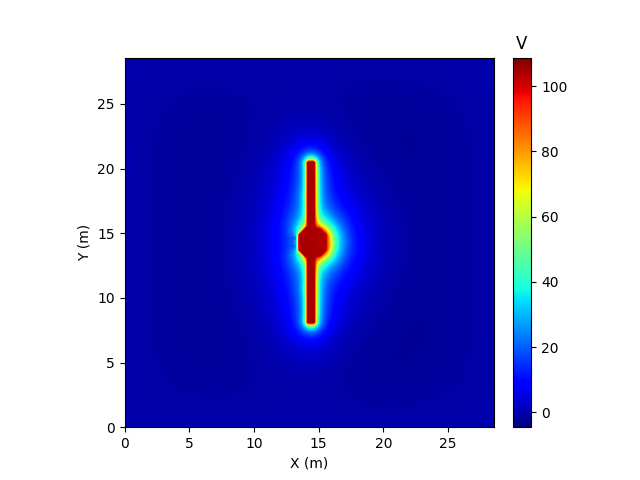
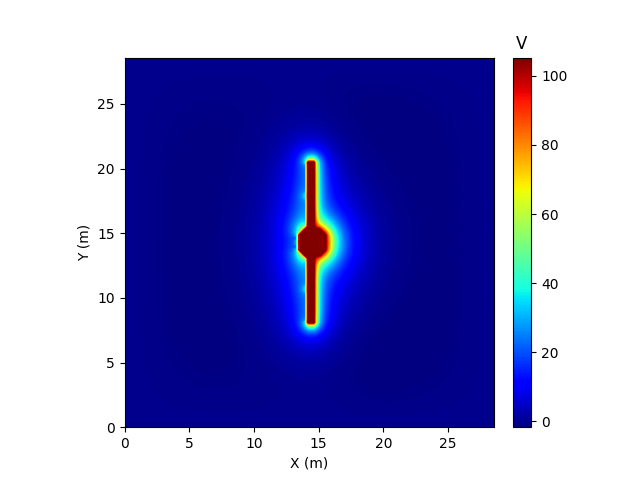
posX with photoemission results discussion

diff --git a/sections/Results.tex b/sections/Results.tex
@@ -1,15 +1,61 @@
 \chapter{Results}
 \label{sec:results}
+\subsection{Numerical experiments}
 
-In this chapter, we present five experiments run with two configurations of the MMO spacecraft. For the sake of brevity, we will refer to the case number as shown in table \ref{tab:MMOexperiments} when presenting analyses for these five experiments. Results will be presented in order such that the plasma conditions closest to those the MMO will actually experience when orbiting the MMO is presented as the last simulation where photoemission parameters are computed directly. Photoemission with a different electron temperature is also presented, since an assumption of constant photoelectron yield was assumed, the impact of a higher photoelectron temperature will be compared to the other experiments in which the average photoelectron temperature was computed using Planck's law. We have also chosen to group simulations with and without booms together to make comparison across the two configurations simpler.
+The charging behaviour of a spacecraft is dependent on several factors; the material composition of the craft, its dimensions, its location in space, the local time, and the space weather \parencite{LAI2019} \todo{Update reference, bib file contains extract of the book}. In this thesis, I wish to investigate what effects the presence of MMO's booms have on its charging behaviour, additionally I wished to investigate whether the direction of the ambient plasma drift or the photoelectron temperature would significantly change how the spacecraft charges.
 
-Save for a computational charging analysis of the combined bepiColombo spacecraft under thrust (using the MTM, the Mercury Transfer Module) we were unable to find similar numerical experiments of the charging of the MMO spacecraft, we will therefore compare our results to theory through current balance analysis as presented in \ref{sec:theory}. As well as compare our results qualitatively to numerical charging experiments for different plasma parameters and different objects, such as in the paper by Deca et al. \parencite{Deca2013} used for our verification simulations.
+The booms on the MMO extend the characteristic length of the spacecraft to be longer than that of the Debye length of the plasma found in table \ref{tab:PlasmaParamMMO}, as such I expect there to be a difference in the thickness of the plasma sheaths formed. 
+
+Varying the direction of drift may impact the convection of photoelectron away from the surface of the sunlit surface of the spacecraft, which could potentially lead to a difference in the floating potential. Varying the average energy of the emitted photoelectrons will change the charging behaviour of the MMO, as seen in the Rosetta charging simulation paper \parencite{Sjogren2012}. To observe to what extent the floating potential and the thickness of the plasma sheath changes is the goal of varying the photoelectron temperature. 
+
+\begin{center}
+\begin{table}[H]
+%\centering
+\begin{tabular}{p{1.5cm}|p{1.5cm}|p{1.5cm}|p{1.5cm}|p{1.5cm}|p{1.5cm}|p{1.5cm}}
+\toprule
+\toprule
+ & No photoelectrons & drift along $+X$ axis & drift along $-Z$ axis & Inclusion of booms & Mercury magnetic field & Photoelectron temp. $3 \; eV$ \\
+\hline
+Case 1 & \text{X} & \text{X} & & & &\\
+\hline
+Case 2 & & \text{X} & & & &\\
+\hline
+Case 3 & & & \text{X} & & &\\
+\hline
+Case 4 & & & \text{X} & & \text{X} &\\
+\hline
+Case 5 & & & \text{X} & & & \text{X}\\
+\hline
+Case 6 & \text{X} & \text{X} & & \text{X} & &\\
+\hline
+Case 7 & & \text{X} & & \text{X} & &\\
+\hline
+Case 8 & & & \text{X} & \text{X} & &\\
+\hline
+Case 9 & & & \text{X} & \text{X} & \text{X} &\\
+\hline
+Case 10 & & & \text{X} & \text{X} & & \text{X}\\
+\bottomrule
+\bottomrule
+\end{tabular}
+\caption{Summary of the numerical experiments of the MMO in orbit around Mercury, carried out with PINC}
+\label{tab:MMOexperiments}
+\end{table}
+\end{center}
+
+Table \ref{tab:MMOexperiments} gives an overview of the numerical simulations of the MMO spacecraft carried out for this thesis, case 1 and case 5 give a baseline of the charging behaviour where no photoemission is included and serves as a point of comparison between the photoelectron current and the ambient electron plasma current the MMO is subjected to. 
+
+Cases 1 to 5, and cases 5 to 10 are equivalent but for the inclusion of the booms, with case 9 being the closest to the true conditions the MMO will experience when its orbit passes over the north cusp (ecliptic north) of Mercury. As such, case 8 is used as the baseline for the simulation in which the photoelectron temperature is varied from the value computed by PINC.
+
+Save for cases 1 and 6, the simulations without photoemission, the computational domain was decomposed into 64 sub-domains for parallel processing. Cases 1 and 6 were decomposed into 128 sub-domains, the reason being that in the cases containing photoemission, the domain was not divided along the x-axis thus splitting the spacecraft in the YZ plane. This would account for another surface interior to the spacecraft that would have to be discarded as a source for photoemissive nodes.
+
+For the sake of brevity, we will refer to the case number as shown in table \ref{tab:MMOexperiments} when presenting analyses for these five experiments. Results will be presented in order such that the plasma conditions closest to those the MMO will actually experience when orbiting the MMO is presented as the last simulation where photoemission parameters are computed directly. Photoemission with a different electron temperature is also presented, since an assumption of constant photoelectron yield was made, the impact of a higher photoelectron temperature will be compared to the other experiments in which the average photoelectron temperature was computed using Planck's law. We have also chosen to group simulations with and without booms together to make comparison across the two configurations simpler.
+
+Save for a computational charging analysis of the combined bepiColombo spacecraft under thrust (using the MTM, the Mercury Transfer Module) \insertref{ESA Bepi sim} we were unable to find similar numerical experiments of the charging of the MMO spacecraft, we will therefore compare our results to theory through current balance analysis as presented in \ref{sec:theory}. As well as compare our results qualitatively to numerical charging experiments for different plasma parameters and different objects, such as in the paper by Deca et al. \parencite{Deca2013} used for our verification simulations.
 
 From current balance, with photoemission included, we expect the variation of drift direction (comparing cases 2 and 3 to cases 7 and 8) to have minimal impact on the floating potential PINC will converge to, similarly we expect the sheath thickness and sheath plasma densities to be comparable for different drift directions. Across all five simulation types run, we expect the floating potential and sheath thickness to be larger in magnitude when the booms on the MMO are fully extended; since the booms are modeled as photoemissive, the greater surface area will lead to an overall higher electron current flowing from the spacecraft leading to a higher floating potential. 
 
 The inclusion of the external magnetic field of Mercury could potentially impact the fraction of photoelectrons with a greater than average temperature being able to leave the surface of the spacecraft, if the particles' velocity vector does not align with the magnetic field the force exerted by the magnetic field could trap electrons more efficiently, leading to a lower floating potential.        
-
-
 
 %FLOATING POTENTIAL SUMMARY
 % \begin{table}[]
@@ -23,7 +69,6 @@ The inclusion of the external magnetic field of Mercury could potentially impact
 % \caption{Dummy text}
 % \label{tab:FlotingPotSummary}
 % \end{table}
-
 \section{Charging without photoemission}
 %FLOATING POTENTIAL CONVERGENCE
 \begin{center}
@@ -39,8 +84,8 @@ The inclusion of the external magnetic field of Mercury could potentially impact
       \caption{Without booms}
       \label{fig:C_noPH_NB}
     \end{subfigure}
-  \label{fig:ConvnoPH}
   \caption{Timeseries plot of potential of the MMO with and without booms. The potential has been converted from PINC dimensionless units to Volts. The inset plots shows the potential of the two configurations for last 10,000 timesteps.}
+    \label{fig:ConvnoPH}
   \end{figure}
 \end{center}
 
@@ -66,8 +111,8 @@ where $\phi_f$ is the MMO floating potential without a photoemission current pre
       \caption{Without booms}
       \label{fig:L_noPH_NB}
     \end{subfigure}
-  \label{fig:Line_noPH_comb}
   \caption{\ref{fig:L_noPH_NB} and \ref{fig:L_noPH_WB} show a potential profile along the X axis for the MMO without and with booms respectively. The line is plotted at $(x,y) = (13.95 m, 13.95 m)$, or node points $(x,y) = (62,62)$, and passes through the main octagonal body of the spacecraft. The X axis units are in number of nodes from the origin.}
+\label{fig:Line_noPH_comb}
   \end{figure}
 \end{center}
 
@@ -94,7 +139,7 @@ The speed $c_s$ is the ion speed of sound, and can be estimated as $c_s = \sqrt{
 
 %AVERAGE POTENTIAL ISOLINES XY
 \begin{center}
-\begin{figure}[H]
+\begin{figure}[hb!]
   \begin{subfigure}[b]{0.61\textwidth}
     \includegraphics[width=\textwidth]{figures/MMO/noPH/WB/P_noPH_WB.png}
     \caption{Booms}
@@ -106,8 +151,7 @@ The speed $c_s$ is the ion speed of sound, and can be estimated as $c_s = \sqrt{
     \caption{Without booms}
     \label{fig:P_noPH_NB}
   \end{subfigure}
-  \label{fig:PMMOnoPH}
-  \caption{\ref{fig:P_noPH_WB} and \ref{fig:P_noPH_WB} are 2D slices through $Z = 14.4 m$ showing the potential profile of the entire computational domain.}
+  \caption{\ref{fig:P_noPH_WB} and \ref{fig:P_noPH_WB} are 2D slices through $Z = 14.4 m$ showing the potential profile of the entire computational domain.}    \label{fig:PMMOnoPH}
 \end{figure}
 \end{center}
 
@@ -127,8 +171,8 @@ Figure \ref{fig:PMMOnoPH} shows 2D cut in the plane $Z=14.4$, dividing the space
       \caption{Without booms}
       \label{fig:I_noPH_NB}
     \end{subfigure}
-  \label{fig:IonsNoPH}
   \caption{Ion density profile plotted at $Z = 14.4 m$, the color gradient is normalized against the ion plasma density from table \ref{tab:PlasmaParamMMO}.}
+\label{fig:IonsNoPH}
   \end{figure}
 \end{center}
 
@@ -145,16 +189,14 @@ Figure \ref{fig:PMMOnoPH} shows 2D cut in the plane $Z=14.4$, dividing the space
       \caption{Without booms}
       \label{fig:E_noPH_NB}
     \end{subfigure}
-  \label{fig:ElectronsNoPH}
   \caption{Electron density profile plotted at $Z = 14.4 m$, the color gradient is normalized against the electron plasma density from table \ref{tab:PlasmaParamMMO}.}
+  \label{fig:ElectronsNoPH}
   \end{figure}
 \end{center}
 
 Figures \ref{fig:IonsNoPH} and \ref{fig:ElectronsNoPH} show the density of ions (protons) and electrons respectively plotted at timestep 400, 1\% through the total simulation time. Similarly to figure \ref{fig:PMMOnoPH}, the 2D slice is placed at $Z = 14.4 m$, dividing the spacecraft in halves. The density values have been normalized against the ambient plasma density, and as before, 500 levels were used for the contour lines drawn. For cases 1 and 6, we set the plasma drift along the positive X axis, \ref{fig:IonsNoPH} clearly shows an ion wake forming "behind" the spacecraft for both boom configurations. We also note the slightly higher density of ions directly in "front" of the spacecraft, denoting the plasma sheath that has formed even this early in the simulation. Figure \ref{fig:ElectronsNoPH} gives the clearest picture of the shape of the plasma sheath formed around the spacecraft, in the MMO configuration with booms, the sheath forms an ellipsoid around the spacecraft where, relative to the ambient plasma, almost no electrons reside. The sheath in the boomless MMO configuration is circular in shape, which gives a good indication that computing the theoretical floating potential of the boomless MMO configuration can be done by assuming the MMO to be a cylinder with the same radius as the circle circumscribing the MMO octagonal body.
 
 \section{Charging with photoemission}
-
-
 
 \subsection*{Drift parallel to X axis}
 
@@ -172,10 +214,11 @@ Figures \ref{fig:IonsNoPH} and \ref{fig:ElectronsNoPH} show the density of ions 
   \caption{Without booms}
   \label{fig:C_posX_NB}
 \end{subfigure}
-\label{fig:Conv_posX}
 \caption{Time series plot of the potential of the two MMO configurations for drift along X axis. The insets plots the same timeseries starting at 1000 timesteps, where the potential of the spacecraft has begun to oscillate about the floating potential.}
+\label{fig:Conv_posX}
 \end{figure}
 
+Figure \ref{fig_Pot_posX} shows the convergence to the floating potential of both MMO configurations. Unlike the numerical simulations without photoemission, the potential of both configurations of the MMO converge rapidly to a its floating potential. The slope of the increase in potential early on in the simulation points to the high ratio between the photoemission current and the charging from the impinging electrons from the ambient plasma. The floating potential for MMO with booms, as seen in figure \ref{fig:P_posX_WB} overshoots the floating potential by several volts, before converging to 105.4 V. In the boomless configuration, figure \ref{fig:P_posX_NB}, the overshoot is much smaller, and the potential shows oscillatory behaviour around a floating potential of 100.7 V. The overshoot in the floating potential could result from the thin booms extending far from the main body of the MMO developing a potential barrier slower, and smaller in height, than the central body leading to a gradual rather than sudden decrease in the effective photoemission current.
 
 %POTENTIAL THROUGH CENTER OF OBJECT
 
@@ -190,8 +233,8 @@ Figures \ref{fig:IonsNoPH} and \ref{fig:ElectronsNoPH} show the density of ions 
   \caption{Without booms}
   \label{fig:L_posX_NB}
 \end{subfigure}
-\label{fig:Line_posX}
 \caption{Potential profile along the X axis for the two MMO configurations with drift along the X axis and photoemission included. The line is plotted at $(x,y) = (13.95 m, 13.95 m)$, or node points $(x,y) = (62,62)$, and passes through the main octagonal body of the spacecraft. The X axis units are in number of nodes from the origin. The two values in each plot show the height of the potential barrier formed.}
+\label{fig:Line_posX}
 \end{figure}
 
 
@@ -208,8 +251,8 @@ Figures \ref{fig:IonsNoPH} and \ref{fig:ElectronsNoPH} show the density of ions 
     \caption{Without booms}
     \label{fig:P_posX_NB}
   \end{subfigure}
-  \label{fig:Pot_posX}
   \caption{2D slices through $Z = 14.4 m$ showing the time averaged potential profile of the entire computational domain with drift along X axis, and photoemission included. The potential is time averaged after a floating potential has been reached after 1,000 timesteps.}
+  \label{fig:Pot_posX}
 \end{figure}
 
 
@@ -228,8 +271,8 @@ Figures \ref{fig:IonsNoPH} and \ref{fig:ElectronsNoPH} show the density of ions 
   \caption{Without booms}
   \label{fig:I_posX_NB}
 \end{subfigure}
-\label{fig:Ions_posX}
 \caption{Ion density profile plotted at $Z = 14.4 m$, the color gradient is normalized against the ion plasma density from table \ref{tab:PlasmaParamMMO}. Plasma drift is along the X axis, and photoemission is included}
+\label{fig:Ions_posX}
 \end{figure}
 
 
@@ -246,12 +289,14 @@ Figures \ref{fig:IonsNoPH} and \ref{fig:ElectronsNoPH} show the density of ions 
   \caption{Without booms}
   \label{fig:E_posX_NB}
 \end{subfigure}
-\label{fig:Elec_posX}
 \caption{Electron density profile plotted at $Z = 14.4 m$, the color gradient is normalized against the electron plasma density from table \ref{tab:PlasmaParamMMO}. Drift is along the X axis, and photoemission is included, the sun is located in the negative X direction.}
+\label{fig:Electrons_posX}
 \end{figure}
 
 
+Plasma particle densities are plotted for both ions (protons) and electrons in figures \ref{fig:Ions_posX} and \ref{fig:Electrons_posX} respectively. Due to a high photoemission current, the positively charged spacecraft does not form an ion wake, as can be seen in both \ref{fig:I_posX_WB} and \ref{fig:I_posX_WB}. Downstream of the spacecraft, there is a relative low ion density relative to the ambient plasma which is more prominent in the case of the boomless configuration of the MMO. When the electron density is restricted in figures \ref{fig:E_posX_WB} and \ref{fig:E_posX_NB} it can be seen that an electron wake forms behind the spacecraft instead. Without restriction in the maximum value of the contour lines, figures \ref{fig:E_posX_WB} and \ref{fig:E_posX_NB} show high concentration of electrons adjacent to the sunlit surfaces of the MMO, with electron densities as high as 1175 times the density of electrons in the ambient plasma. 
 
+At such high densities, the local Debye length is significantly shorter than that of the ambient plasma. We can compute the local Debye length from equation \eqref{eq:Debyelength} and from the photoelectron temperature. The photoelectron temperature is computed in PINC internally by numerical integration of equation \eqref{eq:PlanckSum} in terms of energy and photons per second, subtracting the work function of the surface material gives the photoelectron temperature of $0.62 eV$. Substituting the photoelectron density and temperature into equation \eqref{eq:Debyelength} we have a local Debye length of only 0.017 meters.
 
 \subsection*{Drift parallel to Z axis}
 %FLOATING POTENTIAL CONVERGENCE

diff --git a/sections/NumericalMethod.tex b/sections/NumericalMethod.tex
@@ -935,58 +935,5 @@ The parameter $\overline{Y}$ is the photoelectron yield per incoming photon and 
 
 The SSM panels that cover the MMO are composed of silver films which have a slightly higher, but similar, work function to that of Aluminium. The parameter $A_{MM0}$ denotes the sunlit area of the MMO with and without the magnetometer booms. Since the booms account for a significant part of the sunlit surface area of the spacecraft the properties of Aluminium was used for simulations both with and without the booms.
 
-
-
-\subsection{Numerical experiments}
-
-The charging behaviour of a spacecraft is dependent on several factors; the material composition of the craft, its dimensions, its location in space, the local time, and the space weather \parencite{LAI2019} \todo{Update reference, bib file contains extract of the book}. In this thesis, I wish to investigate what effects the presence of MMO's booms have on its charging behaviour, additionally I wished to investigate whether the direction of the ambient plasma drift or the photoelectron temperature would significantly change how the spacecraft charges.
-
-The booms on the MMO extend the characteristic length of the spacecraft to be longer than that of the Debye length of the plasma found in table \ref{tab:PlasmaParamMMO}, as such I expect there to be a difference in the thickness of the plasma sheaths formed. 
-
-Varying the direction of drift may impact the convection of photoelectron away from the surface of the sunlit surface of the spacecraft, which could potentially lead to a difference in the floating potential. Varying the average energy of the emitted photoelectrons will change the charging behaviour of the MMO, as seen in the Rosetta charging simulation paper \parencite{Sjogren2012}. To observe to what extent the floating potential and the thickness of the plasma sheath changes is the goal of varying the photoelectron temperature. 
-
-\begin{center}
-\begin{table}[H]
-%\centering
-\begin{tabular}{p{1.5cm}|p{1.5cm}|p{1.5cm}|p{1.5cm}|p{1.5cm}|p{1.5cm}|p{1.5cm}}
-\toprule
-\toprule
- & No photoelectrons & drift along $+X$ axis & drift along $-Z$ axis & Inclusion of booms & Mercury magnetic field & Photoelectron temp. $3 \; eV$ \\
-\hline
-Case 1 & \text{X} & \text{X} & & & &\\
-\hline
-Case 2 & & \text{X} & & & &\\
-\hline
-Case 3 & & & \text{X} & & &\\
-\hline
-Case 4 & & & \text{X} & & \text{X} &\\
-\hline
-Case 5 & & & \text{X} & & & \text{X}\\
-\hline
-Case 6 & \text{X} & \text{X} & & \text{X} & &\\
-\hline
-Case 7 & & \text{X} & & \text{X} & &\\
-\hline
-Case 8 & & & \text{X} & \text{X} & &\\
-\hline
-Case 9 & & & \text{X} & \text{X} & \text{X} &\\
-\hline
-Case 10 & & & \text{X} & \text{X} & & \text{X}\\
-\bottomrule
-\bottomrule
-\end{tabular}
-\caption{Summary of the numerical experiments of the MMO in orbit around Mercury, carried out with PINC}
-\label{tab:MMOexperiments}
-\end{table}
-\end{center}
-
-Table \ref{tab:MMOexperiments} gives an overview of the numerical simulations of the MMO spacecraft carried out for this thesis, case 1 and case 5 give a baseline of the charging behaviour where no photoemission is included and serves as a point of comparison between the photoelectron current and the ambient electron plasma current the MMO is subjected to. 
-
-Cases 1 to 5, and cases 5 to 10 are equivalent but for the inclusion of the booms, with case 9 being the closest to the true conditions the MMO will experience when its orbit passes over the north cusp (ecliptic north) of Mercury. As such, case 8 is used as the baseline for the simulation in which the photoelectron temperature is varied from the value computed by PINC.
-
-Save for cases 1 and 6, the simulations without photoemission, the computational domain was decomposed into 64 sub-domains for parallel processing. Cases 1 and 6 were decomposed into 128 sub-domains, the reason being that in the cases containing photoemission, the domain was not divided along the x-axis thus splitting the spacecraft in the YZ plane. This would account for another surface interior to the spacecraft that would have to be discarded as a source for photoemissive nodes.
-
-
-\todo{Remember to update the PC cycle diagram for the capacitance matrix section}
 \newpage
 %\section{Data analysis tools}

diff --git a/sections/TheoreticalBackground.tex b/sections/TheoreticalBackground.tex
@@ -228,7 +228,7 @@ Assuming $e \phi \lll T_e$, then it is reasonable to only keep the linear terms 
 
 Where the Debye length $\lambda_D$ has been defined as follows:
 
-\begin{equation}\label{eq:Helmholtz}
+\begin{equation}\label{eq:debyelength}
     \lambda_d \equiv \sqrt{\frac{\epsilon_0 k T_e}{n_e e^2}}
 \end{equation}
 
